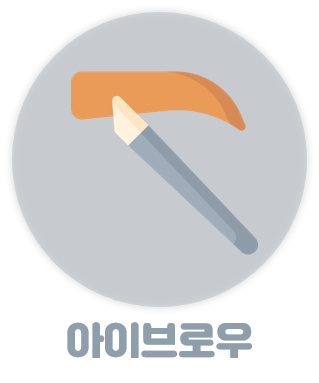
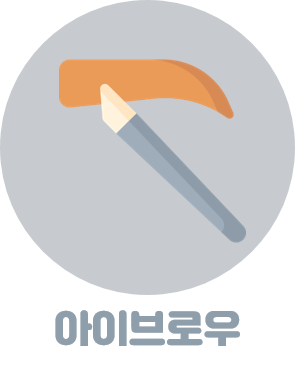
[Feat]: Add makeup mode next, before logic

diff --git a/beauduck-front/src/features/single/Single.style.scss b/beauduck-front/src/features/single/Single.style.scss
@@ -321,11 +321,13 @@
             }
 
             .sub-img {
-                width: 110px;
+                width: 105px;
                 height: 130px;
                 margin-top: auto;
                 margin-bottom: auto;
                 vertical-align: middle;
+                margin-left: 5px;
+                margin-right: 5px;
             }
             }
 

diff --git a/beauduck-front/src/pages/Single.style.scss b/beauduck-front/src/pages/Single.style.scss
@@ -173,8 +173,8 @@
                 top: 0px;
                 left: 20px;
 
-                background-color: white;
-                border-radius: 100px;
+                // background-color: white;
+                // border-radius: 100px;
             }
             .sub-step-content {
                 width: 17vw;
